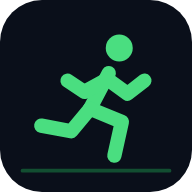
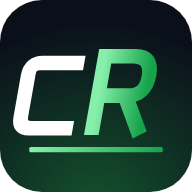
โลโก้ใหม่: ตัวอักษร ChanRun สไตล์สปอร์ต (ไม่ใช้รูปนักวิ่ง)
Claude-Session: https://claude.ai/code/session_01H3crgiExkvZUZMgEydRkAY

diff --git a/src/App.jsx b/src/App.jsx
@@ -417,8 +417,7 @@ export default function App() {
 function LoginScreen({ onLogin }) {
   return (
     <div style={{ minHeight:'100vh', background:'linear-gradient(160deg,#0a0f1a,#0f1f10)', display:'flex', flexDirection:'column', alignItems:'center', justifyContent:'center', padding:24 }}>
-      <img src="/logo.svg" alt="ChanRun" width={88} height={88} style={{ marginBottom:8 }} />
-      <div style={{ fontSize:28, fontWeight:'bold', color:'#22c55e', letterSpacing:3, marginBottom:4 }}>CHANRUN</div>
+      <img src="/logo-full.svg" alt="ChanRun" style={{ width:'100%', maxWidth:320, marginBottom:16 }} />
       <div style={{ color:'#6b7280', marginBottom:12, fontSize:13, textAlign:'center' }}>Self-Coached Marathon Platform</div>
       <div style={{ color:'#4b5563', marginBottom:40, fontSize:12, textAlign:'center' }}>วางแผน · บันทึก · วิเคราะห์ด้วย AI</div>
       <button onClick={onLogin} style={{ display:'flex', alignItems:'center', gap:12, background:'#fff', color:'#1f2937', border:'none', borderRadius:12, padding:'14px 28px', cursor:'pointer', fontWeight:'bold', fontSize:15, fontFamily:'inherit' }}>
